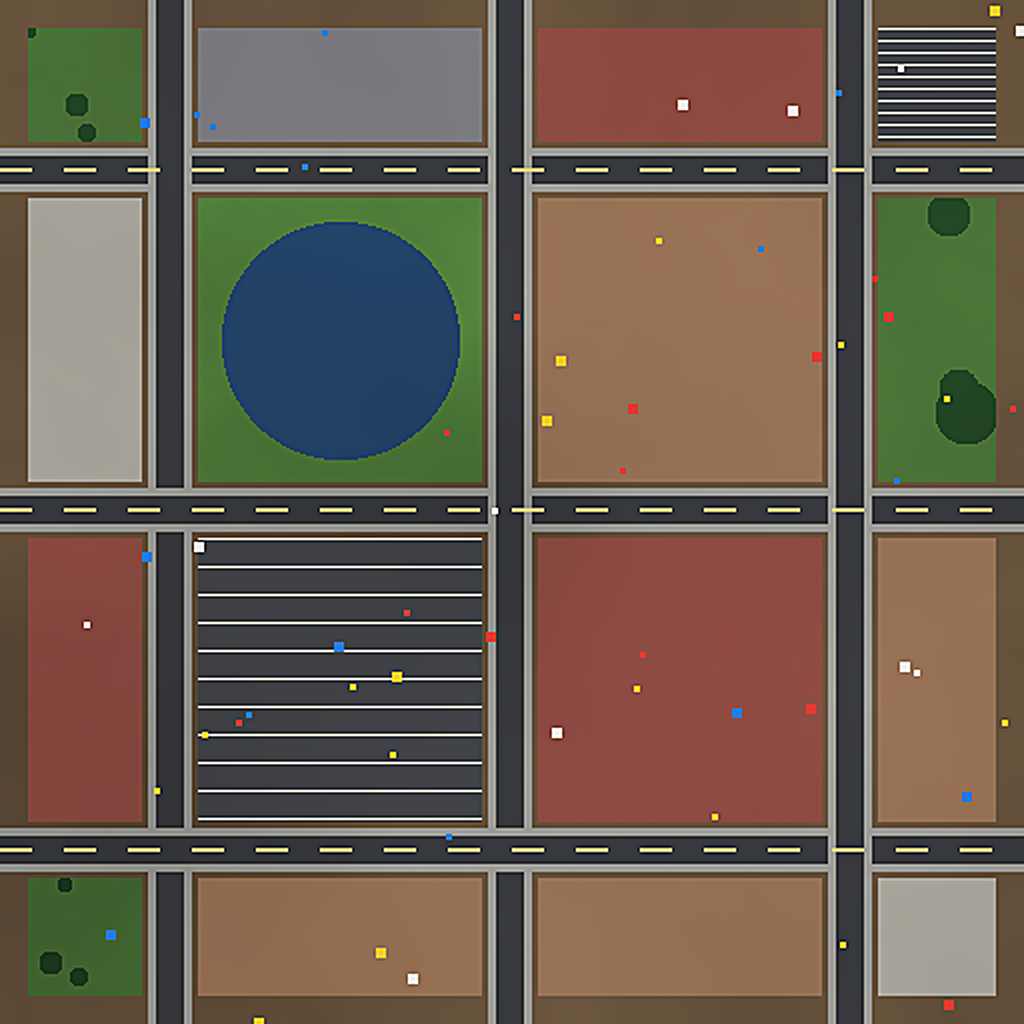
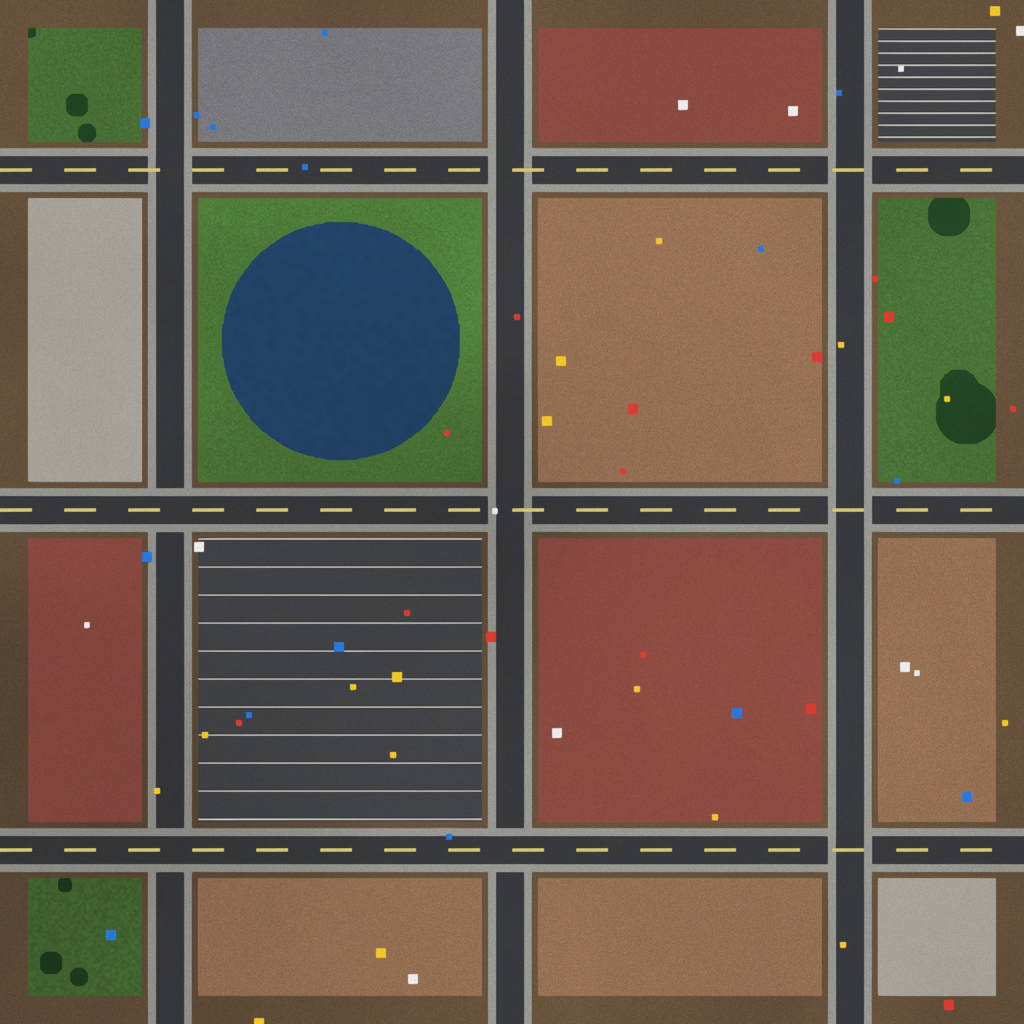
Restore real ground detail: learned SR + class-guided micro-texture
Replace the Lanczos-only path with true restoration: EDSR_x4/FSRCNN_x4 CNNs
via OpenCV dnn_superres (CPU-tiled with seam-free overlap; auto-fallback to
classical when weights are absent), then a new detail stage that synthesizes
per-class sub-pixel material grain (asphalt speckle, grass tufts, roof
granularity, soil mottling, road streaks) blended by splat weights at
physical feature sizes. Kills the old unsharp halos/jaggies and gives every
surface material character; surface_tile.json records exactly which method
ran and that micro-detail is synthesized, so the data stays honest. Adds
preview_detail_compare.png (before/after) and CLI switches --sr-quality /
--no-detail. Model weights are fetched, not committed (see README).

Claude-Session: https://claude.ai/code/session_019LEPkDzCchXZYpHhw77vxJ

diff --git a/Tools/SatelliteGround/satground/superres.py b/Tools/SatelliteGround/satground/superres.py
@@ -1,20 +1,34 @@
 """
 Super-resolution stage.
 
-Goal here is NOT to hallucinate ground truth -- it is to upsample the macro
-albedo so mid-range views are not blurry, while the real per-class detail comes
-later from tiling PBR materials.  So the default is a robust classical path
-(Lanczos upsample + edge-aware detail enhancement) that needs no GPU/weights.
+Two backends, picked automatically:
 
-A learned backend (e.g. Real-ESRGAN ONNX) can be slotted in via `method="ai"`
-once weights/GPU are available; it must preserve the pixel grid so the
-geotransform only needs its metres-per-pixel divided by `scale`.
+* learned  -- OpenCV dnn_superres running real pretrained CNNs
+              (EDSR_x4 for quality, FSRCNN_x4 as the fast path).  These are
+              trained restoration models, so recovered edges/texture are
+              inferred detail, not just interpolation.  Models live in
+              `models/*.pb` next to the package; grab them from
+              raw.githubusercontent.com/Saafke/{EDSR,FSRCNN}_Tensorflow.
+* classical -- Lanczos + edge-aware unsharp; no weights needed, never
+              hallucinates.  Used when models/cv2 are absent.
+
+Both preserve the pixel grid, so the geotransform only needs its
+metres-per-pixel divided by `scale`.  `info["method"]` records what actually
+ran so surface_tile.json stays honest about where detail came from.
 """
 from __future__ import annotations
+
+from pathlib import Path
 
 import numpy as np
 from PIL import Image
 from skimage.filters import unsharp_mask
+
+MODELS_DIR = Path(__file__).resolve().parent.parent / "models"
+
+# EDSR is heavy on CPU: run it on overlapping chunks and blend the seams.
+_EDSR_CHUNK = 128
+_EDSR_OVERLAP = 12
 
 
 def _classical(rgb: np.ndarray, scale: int) -> np.ndarray:
@@ -30,28 +44,76 @@ def _classical(rgb: np.ndarray, scale: int) -> np.ndarray:
     return (out * 255.0 + 0.5).astype(np.uint8)
 
 
-def super_resolve(rgb: np.ndarray, scale: int = 2, method: str = "classical"
-                  ) -> tuple[np.ndarray, dict]:
+def _load_model(name: str, scale: int):
+    from cv2 import dnn_superres
+    path = MODELS_DIR / f"{name.upper()}_x{scale}.pb"
+    if not path.exists():
+        raise FileNotFoundError(path)
+    sr = dnn_superres.DnnSuperResImpl_create()
+    sr.readModel(str(path))
+    sr.setModel(name.lower(), scale)
+    return sr
+
+
+def _upsample_tiled(sr, rgb: np.ndarray, scale: int,
+                    chunk: int = _EDSR_CHUNK, overlap: int = _EDSR_OVERLAP
+                    ) -> np.ndarray:
+    """Chunked inference with overlap cropping so seams don't show."""
+    h, w = rgb.shape[:2]
+    out = np.zeros((h * scale, w * scale, 3), dtype=np.uint8)
+    step = chunk - 2 * overlap
+    for y0 in range(0, h, step):
+        for x0 in range(0, w, step):
+            ya, xa = max(0, y0 - overlap), max(0, x0 - overlap)
+            yb, xb = min(h, y0 + step + overlap), min(w, x0 + step + overlap)
+            up = sr.upsample(rgb[ya:yb, xa:xb])
+            # crop the model output back to this chunk's core region
+            cy, cx = (y0 - ya) * scale, (x0 - xa) * scale
+            ch = (min(h, y0 + step) - y0) * scale
+            cw = (min(w, x0 + step) - x0) * scale
+            out[y0 * scale:y0 * scale + ch,
+                x0 * scale:x0 * scale + cw] = up[cy:cy + ch, cx:cx + cw]
+    return out
+
+
+def _learned(rgb: np.ndarray, scale: int, quality: str) -> tuple[np.ndarray, dict]:
+    """Run a real SR network.  Models are x4; other scales resample after."""
+    native = 4
+    if quality == "high":
+        sr = _load_model("edsr", native)
+        up = _upsample_tiled(sr, rgb, native)
+        method = "edsr_x4_cnn"
+    else:
+        sr = _load_model("fsrcnn", native)
+        up = sr.upsample(rgb)
+        method = "fsrcnn_x4_cnn"
+    if scale != native:
+        h, w = rgb.shape[:2]
+        up = np.asarray(Image.fromarray(up).resize(
+            (w * scale, h * scale), Image.LANCZOS))
+        method += f"_resampled_x{scale}"
+    return up, {"method": method, "scale": scale, "hallucinated": True,
+                "model": f"{'EDSR' if quality == 'high' else 'FSRCNN'}_x4"}
+
+
+def super_resolve(rgb: np.ndarray, scale: int = 2, method: str = "auto",
+                  quality: str = "high") -> tuple[np.ndarray, dict]:
     """Return (upsampled_rgb, info).
 
-    `info` records the method actually used so the data structure can be honest
-    about whether detail is real or interpolated.
+    method: "auto" tries the learned backend and falls back to classical;
+            "learned" / "classical" force a path (learned raises if absent).
+    quality: "high" = EDSR (slow, CPU-tiled), "fast" = FSRCNN.
     """
-    if method == "ai":
+    if method in ("auto", "learned"):
         try:
-            return _ai_backend(rgb, scale)
-        except Exception as exc:  # pragma: no cover - depends on optional deps
+            return _learned(rgb, scale, quality)
+        except Exception as exc:
+            if method == "learned":
+                raise
             out = _classical(rgb, scale)
             return out, {"method": "classical_fallback", "scale": scale,
-                         "reason": f"ai backend unavailable: {exc}"}
+                         "hallucinated": False,
+                         "reason": f"learned backend unavailable: {exc}"}
     out = _classical(rgb, scale)
     return out, {"method": "classical_lanczos_unsharp", "scale": scale,
                  "hallucinated": False}
-
-
-def _ai_backend(rgb: np.ndarray, scale: int):  # pragma: no cover
-    """Placeholder for a learned SR backend (Real-ESRGAN ONNX, etc.).
-
-    Intentionally raises until wired up, so callers fall back to classical.
-    """
-    raise NotImplementedError("AI super-resolution backend not configured")

diff --git a/Tools/SatelliteGround/satground/detail.py b/Tools/SatelliteGround/satground/detail.py
@@ -1,0 +1,103 @@
+"""
+Class-guided micro-detail synthesis.
+
+Even a real SR network cannot recover texture below the sensor's ground
+sample distance, so this stage restores *plausible* sub-pixel material
+character: each class gets a procedural micro-texture with physically sized
+features (asphalt grain ~5 cm, grass clumps ~35 cm, ...), and the fields are
+blended into the albedo weighted by the splat maps.  Deterministic (seeded),
+grid-preserving, and honest: surface_tile.json records it as synthesized.
+
+Order matches segment.CLASS_KEYS:
+    grass, tree, road, concrete, building, water, soil, object
+"""
+from __future__ import annotations
+
+import numpy as np
+from scipy.ndimage import gaussian_filter, zoom
+
+# Per-class (feature_size_m, luminance_amplitude).  Amplitude is the max
+# +/- relative luminance modulation contributed at full class weight.
+CLASS_DETAIL = [
+    (0.35, 0.10),   # grass: clumpy tufts
+    (0.60, 0.12),   # tree: canopy leaf-cluster lumps
+    (0.06, 0.05),   # road: fine asphalt grain
+    (0.10, 0.05),   # concrete: speckle
+    (0.25, 0.07),   # building roof: gravel/tile granularity
+    (1.50, 0.04),   # water: broad ripple shading
+    (0.20, 0.09),   # soil: mottling
+    (0.15, 0.06),   # object: generic grain
+]
+# Slight per-class chroma jitter (applied to G channel for vegetation,
+# uniformly elsewhere) so detail is not purely luminance.
+CLASS_CHROMA = [0.05, 0.06, 0.0, 0.0, 0.02, 0.0, 0.04, 0.0]
+
+
+def _noise(shape: tuple[int, int], feature_px: float, rng) -> np.ndarray:
+    """Band-limited value noise with ~feature_px feature size, in [-1, 1]."""
+    feature_px = max(feature_px, 1.0)
+    h, w = shape
+    gh = max(2, int(np.ceil(h / feature_px)) + 1)
+    gw = max(2, int(np.ceil(w / feature_px)) + 1)
+    coarse = rng.random((gh, gw), dtype=np.float32)
+    field = zoom(coarse, (h / gh, w / gw), order=3, mode="nearest",
+                 grid_mode=True)[:h, :w]
+    field = gaussian_filter(field, sigma=feature_px * 0.15)
+    field -= field.mean()
+    peak = max(float(np.abs(field).max()), 1e-6)
+    return (field / peak).astype(np.float32)
+
+
+def _upsample_splat(splat: np.ndarray, out_hw: tuple[int, int]) -> np.ndarray:
+    h, w = out_hw
+    sh, sw, c = splat.shape
+    if (sh, sw) == (h, w):
+        return splat
+    up = zoom(splat, (h / sh, w / sw, 1), order=1, mode="nearest",
+              grid_mode=True)[:h, :w]
+    up = np.clip(up, 0.0, 1.0)
+    s = up.sum(axis=2, keepdims=True)
+    return (up / np.maximum(s, 1e-6)).astype(np.float32)
+
+
+def enrich_albedo(albedo: np.ndarray, splat: np.ndarray, mpp: float,
+                  seed: int = 7, strength: float = 1.0
+                  ) -> tuple[np.ndarray, dict]:
+    """Blend per-class micro-textures into `albedo` (uint8 HxWx3).
+
+    splat may be at a coarser resolution; it is upsampled and renormalised.
+    mpp is metres-per-pixel of `albedo`, used to size features physically.
+    Returns (enriched_uint8, info).
+    """
+    h, w = albedo.shape[:2]
+    wts = _upsample_splat(splat.astype(np.float32), (h, w))
+    rng = np.random.default_rng(seed)
+
+    lum = np.zeros((h, w), dtype=np.float32)
+    green = np.zeros((h, w), dtype=np.float32)
+    for c, (size_m, amp) in enumerate(CLASS_DETAIL):
+        n = _noise((h, w), size_m / mpp, rng)
+        lum += wts[..., c] * amp * n
+        if CLASS_CHROMA[c] > 0.0:
+            n2 = _noise((h, w), (size_m * 2.0) / mpp, rng)
+            green += wts[..., c] * CLASS_CHROMA[c] * n2
+
+    # Directional streak grain on roads (tyre polish / lane wear).
+    road = wts[..., 2]
+    if float(road.max()) > 0.05:
+        streak = _noise((h, w), 0.08 / mpp, rng)
+        streak = gaussian_filter(streak, sigma=(0.5, 3.0 / max(mpp, 1e-3) * 0.2 + 1.5))
+        peak = max(float(np.abs(streak).max()), 1e-6)
+        lum += road * 0.03 * (streak / peak)
+
+    arr = albedo.astype(np.float32) / 255.0
+    mod = 1.0 + strength * lum[..., None]
+    out = arr * mod
+    out[..., 1] *= 1.0 + strength * green
+    out = np.clip(out, 0.0, 1.0)
+    return ((out * 255.0) + 0.5).astype(np.uint8), {
+        "applied": True, "seed": seed, "strength": strength,
+        "classes": [{"key_index": i, "feature_m": s, "amplitude": a}
+                    for i, (s, a) in enumerate(CLASS_DETAIL)],
+        "note": "procedural micro-texture, synthesized (not sensed)",
+    }

diff --git a/Tools/SatelliteGround/pipeline.py b/Tools/SatelliteGround/pipeline.py
@@ -23,8 +23,8 @@ from pathlib import Path
 import numpy as np
 from PIL import Image
 
-from satground import (datastructure, material, mesh, preview, relief, segment,
-                       superres, tile_source)
+from satground import (datastructure, detail, material, mesh, preview, relief,
+                       segment, superres, tile_source)
 
 
 def save_height16(height: np.ndarray, stats: dict, path: Path):
@@ -37,6 +37,10 @@ def main():
     ap.add_argument("--input", default="input", help="dir with optional tile.png")
     ap.add_argument("--output", default="output", help="output dir")
     ap.add_argument("--sr", type=int, default=2, help="super-resolution scale")
+    ap.add_argument("--sr-quality", choices=["high", "fast"], default="high",
+                    help="learned SR model: high=EDSR (slow), fast=FSRCNN")
+    ap.add_argument("--no-detail", action="store_true",
+                    help="skip class-guided micro-detail synthesis")
     ap.add_argument("--grid-n", type=int, default=128, help="mesh grid quads/edge")
     ap.add_argument("--tile-id", default="shanghai_demo_0_0")
     args = ap.parse_args()
@@ -55,8 +59,8 @@ def main():
           f"UTM{geo.utm_zone}{'N' if geo.northern else 'S'} epsg={geo.epsg}")
 
     print(f"[2/7] super-resolution x{args.sr} ...")
-    albedo, sr_info = superres.super_resolve(rgb, scale=args.sr)
-    Image.fromarray(albedo).save(out_dir / "albedo.png")
+    albedo, sr_info = superres.super_resolve(rgb, scale=args.sr,
+                                             quality=args.sr_quality)
     print(f"      albedo={albedo.shape[1]}x{albedo.shape[0]} "
           f"method={sr_info['method']} mpp={geo.mpp(albedo.shape[0]):.3f}")
 
@@ -67,6 +71,15 @@ def main():
         if c["coverage"] > 0.005:
             print(f"      {c['key']:9s} {c['coverage']*100:5.1f}%")
     print(f"      ground objects detected: {len(seg.objects)}")
+
+    if not args.no_detail:
+        albedo, det_info = detail.enrich_albedo(
+            albedo, seg.splat, geo.mpp(albedo.shape[0]))
+        sr_info["micro_detail"] = det_info
+        print("      micro-detail: class-guided procedural texture applied")
+    else:
+        sr_info["micro_detail"] = {"applied": False}
+    Image.fromarray(albedo).save(out_dir / "albedo.png")
 
     print("[4/7] relief (height + normal) ...")
     height, normal, hstats = relief.build_relief(seg.class_map, seg.splat, geo)

diff --git a/Tools/SatelliteGround/README.md b/Tools/SatelliteGround/README.md
@@ -66,7 +66,7 @@ pre-installed Chromium and saves a screenshot (used to validate WebGL output).
 | field | meaning |
 |-------|---------|
 | `geo` | WGS84 SW anchor, UTM zone/epsg, geo bbox, `geotransform_utm/geo` (pixel→CRS) |
-| `super_resolution` | method + whether detail is interpolated (honest, never hallucinated) |
+| `super_resolution` | method actually run (learned CNN vs classical), `hallucinated` flag, `micro_detail` record |
 | `raster.albedo` | super-res macro colour texture (+ m/px) |
 | `raster.splat` | RGBA-packed per-class weight maps (4 classes/texture) + channel order |
 | `raster.height` / `raster.normal` | 16-bit height (linear, min/max in m) + normal map |
@@ -93,7 +93,8 @@ pipeline.py            orchestrator (CLI)
 satground/
   geo.py               WGS84↔UTM, TileGeo anchor + geotransforms
   tile_source.py       load real tile / synthesise stand-in
-  superres.py          classical SR (pluggable AI backend)
+  superres.py          learned SR (EDSR/FSRCNN via dnn_superres) + classical fallback
+  detail.py            class-guided micro-texture synthesis (sub-pixel material grain)
   segment.py           KMeans + heuristic class mapping, water/object detection, splat
   relief.py            per-class height field + normal map
   mesh.py              georeferenced grid mesh → OBJ + GLB
@@ -106,7 +107,15 @@ viewer/                standalone three.js viewer (offline, vendored)
 ## Current limitations / roadmap
 
 - Input is a synthetic stand-in (egress blocks live tiles) — swap real tile in.
-- SR is classical; a Real-ESRGAN ONNX backend can slot into `superres._ai_backend`.
+- SR models are not committed (38 MB); fetch once into `models/`:
+  ```
+  curl -L -o models/FSRCNN_x4.pb https://raw.githubusercontent.com/Saafke/FSRCNN_Tensorflow/master/models/FSRCNN_x4.pb
+  curl -L -o models/EDSR_x4.pb   https://raw.githubusercontent.com/Saafke/EDSR_Tensorflow/master/models/EDSR_x4.pb
+  ```
+  Without them the pipeline falls back to classical Lanczos automatically.
+  `--sr-quality fast` uses FSRCNN (sub-second); default `high` uses EDSR
+  (CPU-tiled, ~1 min per 512 px tile). `--no-detail` disables the procedural
+  micro-texture pass. Real-ESRGAN ONNX remains a drop-in upgrade path.
 - Segmentation is unsupervised heuristics; replace `segment.segment()` with a
   learned remote-sensing model (OpenEarthMap / LoveDA) for production accuracy.
 - Single tile; tiling across `tile_manifest.json` + a UE importer come next.
